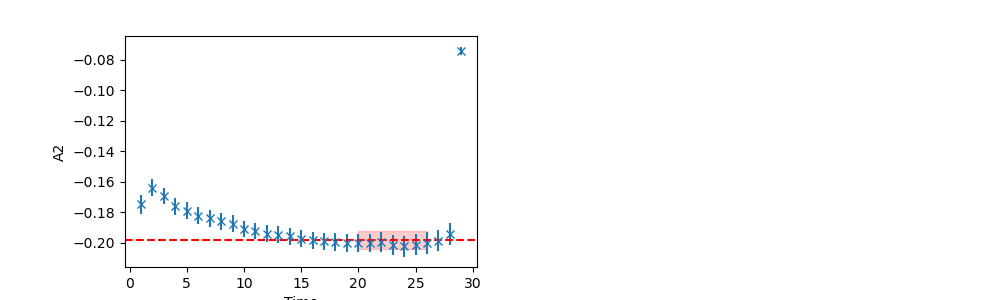
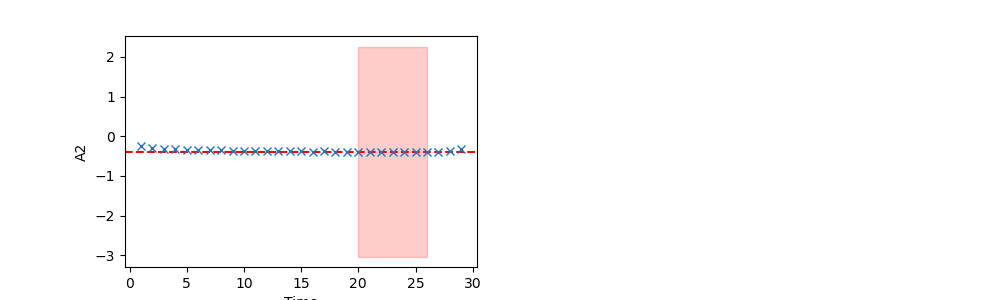
Changed prefactors etc for A2

diff --git a/A2-Av-improved.py b/A2-Av-improved.py
@@ -48,7 +48,7 @@ def sum_with_exceptions_jack(lst,j,i):
 
 
 #########decide here which nsq
-nsq=1
+nsq=5
 ##########
 
 
@@ -248,8 +248,8 @@ for t1 in range(int(ts/2-1-reg_low-cut)):
         for i in range(nconf):  
             #+jack(av1n0xm[t1+reg_low],i)-jack(av1n0ym[t1+reg_low],i)+jack(av1n0zm[t1+reg_low],i)
             #+jack(av1n0xm[t2+reg_low],i)-jack(av1n0ym[t2+reg_low],i)+jack(av1n0zm[t2+reg_low],i)
-            x=x+(((pre2*sum_with_exceptions_jack(av1n02, t1+reg_low, i)-sum_with_exceptions_jack(av1n0, t1+reg_low, i))/(np.sqrt(1/3*(jack(avdx[t1+reg_low],i)+jack(avdy[t1+reg_low],i)+jack(avdz[t1+reg_low],i))*jack(avb[dt-(t1+reg_low)],i))))*np.sqrt((4*dsfit['EffectiveMass'][i]*bsfit['EffectiveMass'][i])/(np.exp(-dsfit['EffectiveMass'][i]*(t1+reg_low))*np.exp(-bsfit['EffectiveMass'][i]*(dt-(t1+reg_low)))))*pre-avn0[t1])
-            *(((pre2*sum_with_exceptions_jack(av1n02, t2+reg_low, i)-sum_with_exceptions_jack(av1n0, t2+reg_low, i))/(np.sqrt(1/3*(jack(avdx[t2+reg_low],i)+jack(avdy[t2+reg_low],i)+jack(avdz[t2+reg_low],i))*jack(avb[dt-(t2+reg_low)],i))))*np.sqrt((4*dsfit['EffectiveMass'][i]*bsfit['EffectiveMass'][i])/(np.exp(-dsfit['EffectiveMass'][i]*(t2+reg_low))*np.exp(-bsfit['EffectiveMass'][i]*(dt-(t2+reg_low)))))*pre-avn0[t2])            
+            x=x+(((pre2*sum_with_exceptions_jack(av1n02, t1+reg_low, i)-sum_with_exceptions_jack(av1n0, t1+reg_low, i))/(np.sqrt(1/3*(jack(avdx[t1+reg_low],i)+jack(avdy[t1+reg_low],i)+jack(avdz[t1+reg_low],i))*jack(avb[dt-(t1+reg_low)],i))))*np.sqrt((4*dsfit['EffectiveMass'][i]*bsfit['EffectiveMass'][i])/(np.exp(-dsfit['EffectiveMass'][i]*(t1+reg_low))*np.exp(-bsfit['EffectiveMass'][i]*(dt-(t1+reg_low)))))*pre-avn0[t1])*(((pre2*sum_with_exceptions_jack(av1n02, t2+reg_low, i)-sum_with_exceptions_jack(av1n0, t2+reg_low, i))/(np.sqrt(1/3*(jack(avdx[t2+reg_low],i)+jack(avdy[t2+reg_low],i)+jack(avdz[t2+reg_low],i))*jack(avb[dt-(t2+reg_low)],i))))*np.sqrt((4*dsfit['EffectiveMass'][i]*bsfit['EffectiveMass'][i])/(np.exp(-dsfit['EffectiveMass'][i]*(t2+reg_low))*np.exp(-bsfit['EffectiveMass'][i]*(dt-(t2+reg_low)))))*pre-avn0[t2])            
+
             '''
             if nmom==3 and nmom2==3:
                 x=x+(((pre2*(jack(av1n0xa[t1+reg_low],i)-jack(av1n0ya[t1+reg_low],i)+jack(av1n0za[t1+reg_low],i))/3*(1/md-1)*(mb+md0))-(((jack(av1n0x[t1+reg_low],i)-jack(av1n0y[t1+reg_low],i)+jack(av1n0z[t1+reg_low],i))/3)/(1/3*np.sqrt((jack(avdx[t1+reg_low],i)+jack(avdy[t1+reg_low],i)+jack(avdz[t1+reg_low],i))*jack(avb[t1+reg_low],i))))*np.sqrt((4*md*mb)/(np.exp(-md*(t1+reg_low))*np.exp(-mb*(30-(t1+reg_low))))))*pre-avn0[t1])*(((pre2*(jack(av1n0xa[t2+reg_low],i)-jack(av1n0ya[t2+reg_low],i)+jack(av1n0za[t2+reg_low],i))/3*(1/md-1)*(mb+md0))-(((jack(av1n0x[t2+reg_low],i)-jack(av1n0y[t2+reg_low],i)+jack(av1n0z[t2+reg_low],i))/3)/(1/3*np.sqrt((jack(avdx[t2+reg_low],i)+jack(avdy[t2+reg_low],i)+jack(avdz[t2+reg_low],i))*jack(avb[t2+reg_low],i))))*np.sqrt((4*md*mb)/(np.exp(-md*(t2+reg_low))*np.exp(-mb*(dt-(t2+reg_low))))))*pre-avn0[t2])            
